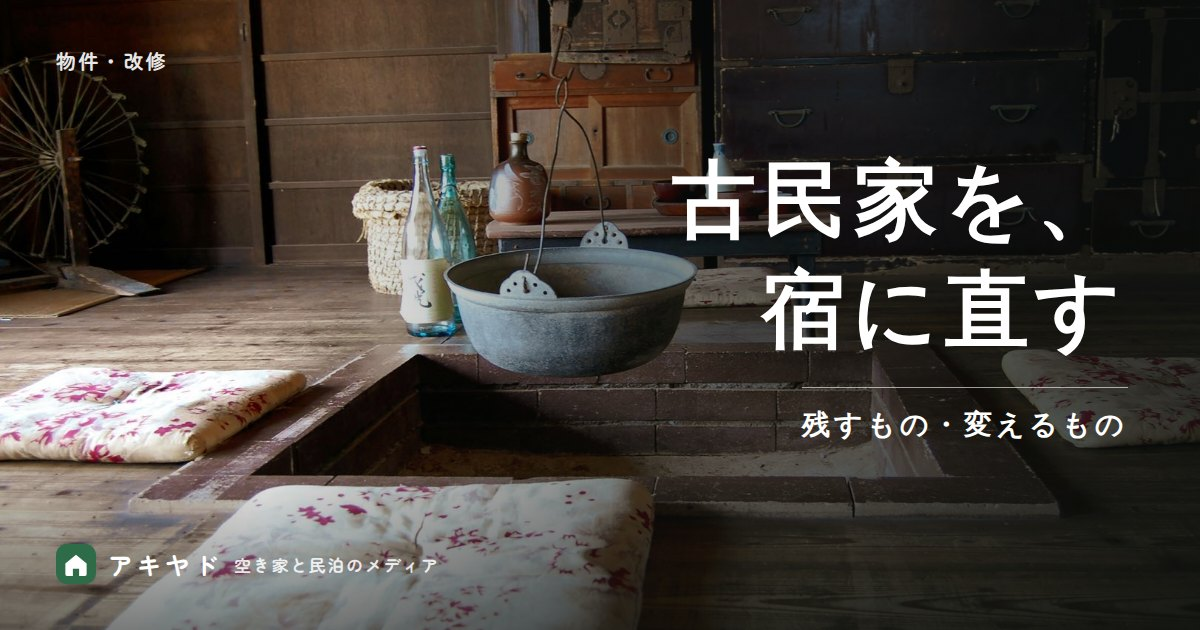
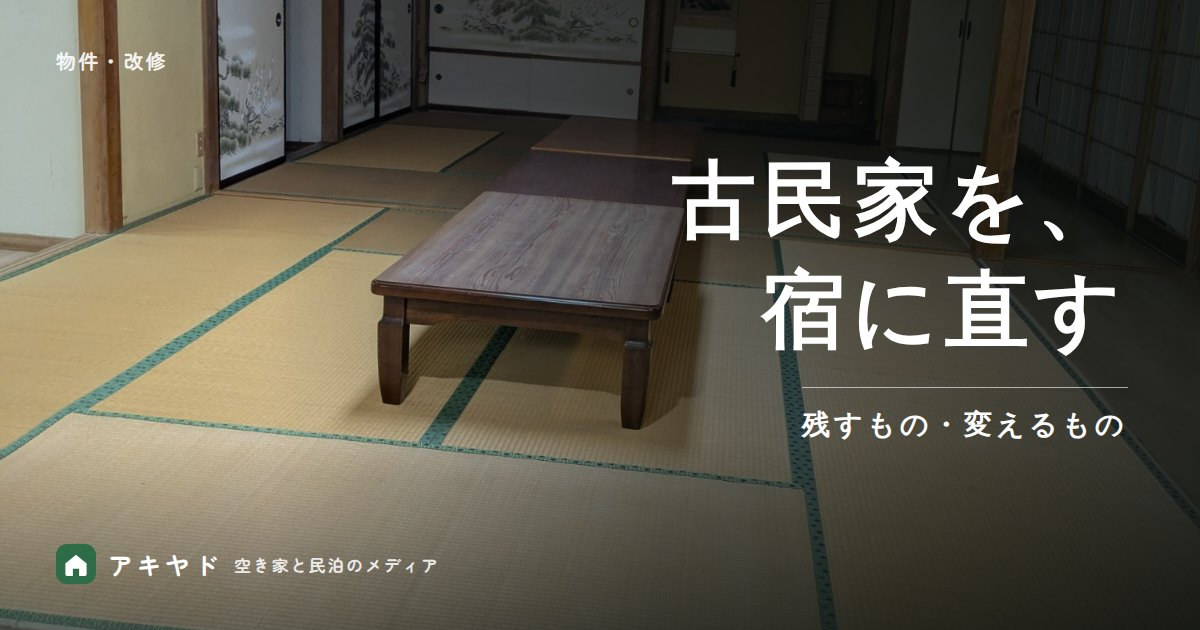
いただいた物件の写真（和室・改修中の部屋・ソファの部屋）を4記事のアイキャッチに使用
Claude-Session: https://claude.ai/code/session_01QhiMqAcoNGYrh5Cz1K4JLP

diff --git a/tools/eyecatch_designs.py b/tools/eyecatch_designs.py
@@ -28,10 +28,10 @@ DESIGNS = {
     # ---- 物件・改修
     "akiya-bank-guide": dict(layout="marker", lines=["空き家バンクの", "[仕組みと使い方]"], sub="登録・購入の前に知っておきたいこと"),
     "shizuoka-yaizu-akiya-inn": dict(layout="boxes", lines=["静岡市・焼津の", "空き家は", "[宿になる？]"]),
-    "kominka-renovation-points": dict(layout="mincho", lines=["古民家を、", "宿に直す"], sub="残すもの・変えるもの"),
+    "kominka-renovation-points": dict(layout="mincho", lines=["古民家を、", "宿に直す"], sub="残すもの・変えるもの", photo="own-tatami-hall", pos="50% 62%"),
     "akiya-utilization-options": dict(layout="poster", big="売る？貸す？宿？", lines=["空き家の[活用方法]を比べる"], color="green"),
-    "akiya-minpaku-suitability": dict(layout="quote", lines=["その空き家は、", "[民泊に向いている？]"], color="sand"),
-    "remote-renovation-tips": dict(layout="frame", lines=["遠方からの", "[改修工事]の進め方"], color="terra"),
+    "akiya-minpaku-suitability": dict(layout="quote", lines=["その空き家は、", "[民泊に向いている？]"], color="sand", photo="own-tatami-hall", pos="50% 45%"),
+    "remote-renovation-tips": dict(layout="frame", lines=["遠方からの", "[改修工事]の進め方"], color="terra", photo="own-renovation-room", pos="50% 55%"),
     "new-build-vs-used-house-inn": dict(layout="duo", a="新築", b="中古", lines=["小さな宿は、[どっちがいい？]"]),
 
     # ---- 貸す・任せる
@@ -65,7 +65,7 @@ DESIGNS = {
     "minpaku-neighbor-rules": dict(layout="frame", lines=["近隣トラブルを防ぐ", "[ルールづくり]"], color="mustard"),
     "minpaku-off-season": dict(layout="mincho", lines=["閑散期を、", "どう越える"], sub="売上の波をならす工夫"),
     "minpaku-remote-operation": dict(layout="giant", big="遠隔運営", lines=["遠方の物件でも、", "[運営できる？]"]),
-    "long-stay-guest-equipment": dict(layout="marker", lines=["長期滞在のゲストに", "[選ばれる設備]"]),
+    "long-stay-guest-equipment": dict(layout="marker", lines=["長期滞在のゲストに", "[選ばれる設備]"], photo="own-sofa-room", pos="60% 45%"),
 
     # ---- 観光と地域
     "japan-tourism-market-data": dict(layout="number", big="5", unit="つの課題", lines=["データで見る日本の観光市場と", "[地方が抱える課題]"], color="navy"),
